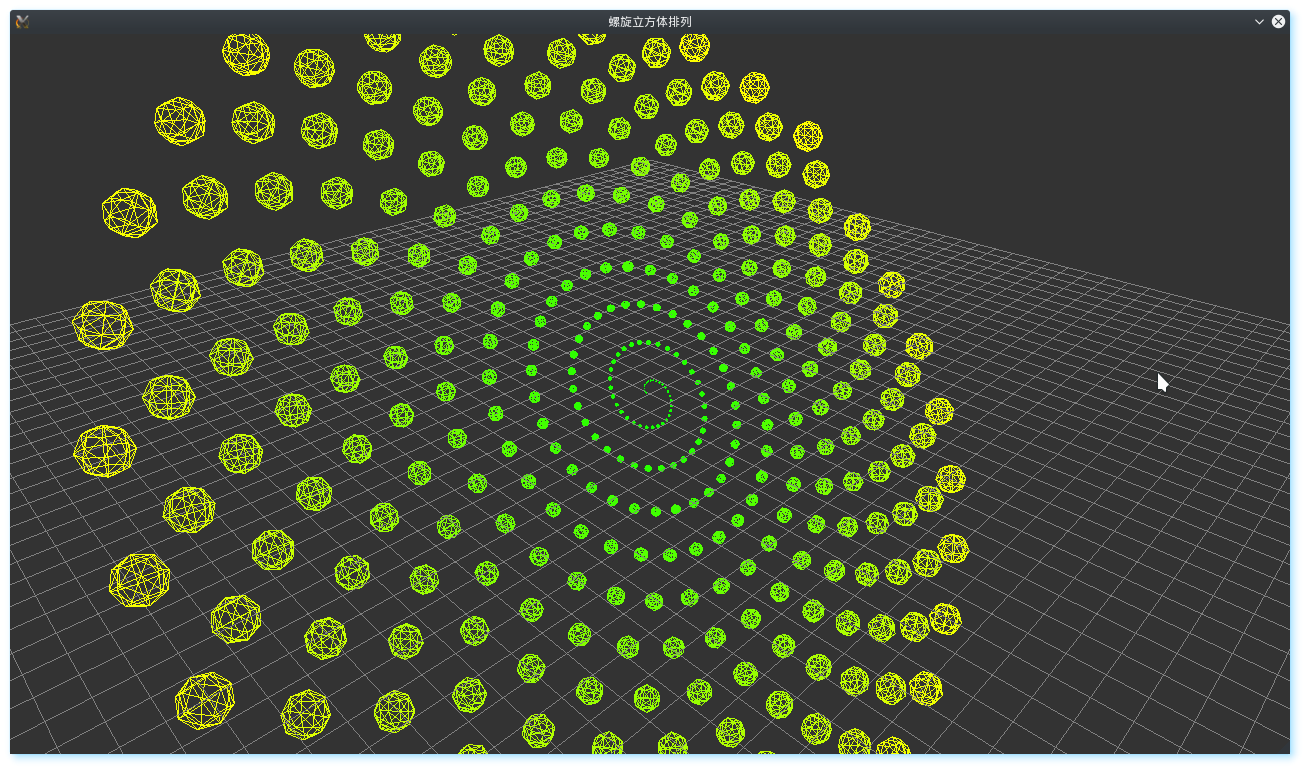
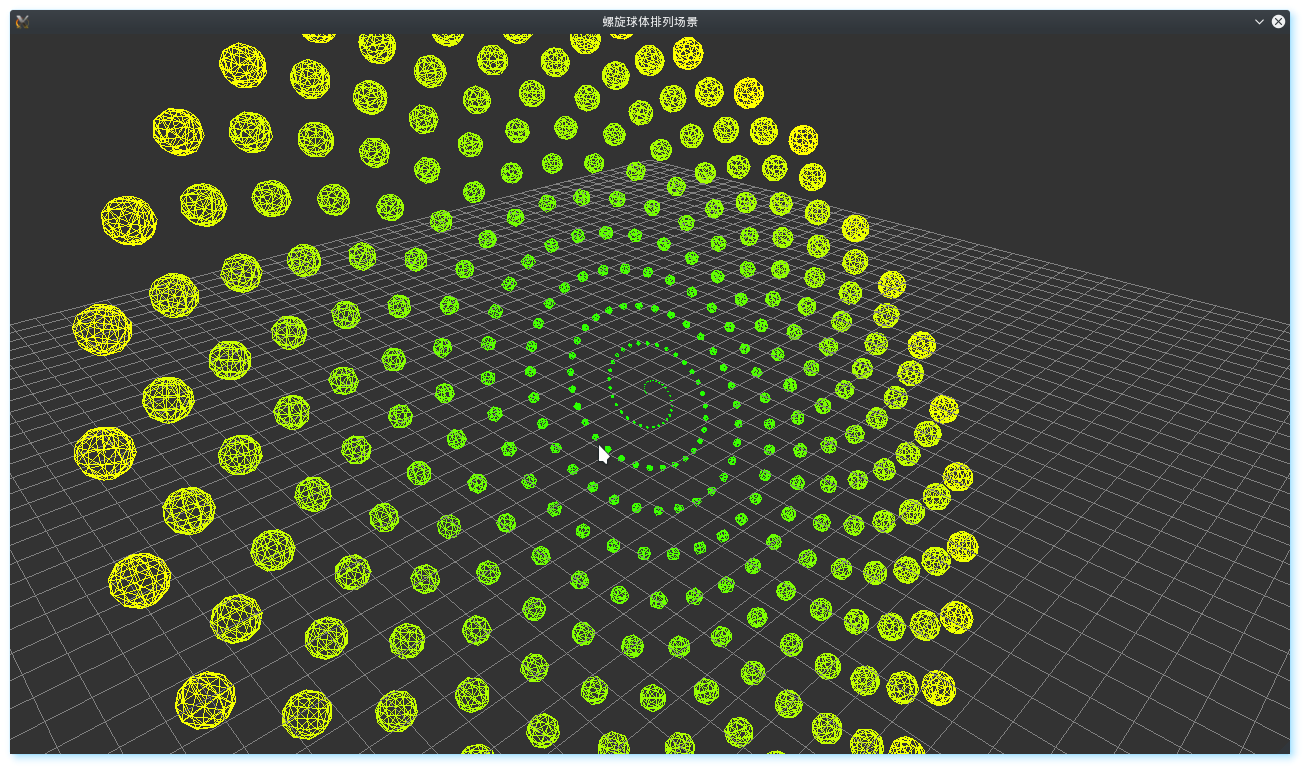
SpiralSphereScene范例改为球体面数不固定

diff --git a/examples/3d/SpiralSphereScene/SpiralSphere.cpp b/examples/3d/SpiralSphereScene/SpiralSphere.cpp
@@ -3,7 +3,8 @@
 
 SpiralSphere::SpiralSphere(const Vector3f &up_vector)
 {
-	sphere_data=CreateRenderableSphere(8);//false,vbtDiffuseTexCoord);				///<创建一个球体的顶点数据，并指定纹理坐标写在那一个位置上
+	for(int i=0;i<SPHERE_LOD_LEVEL;i++)
+		sphere_data[i]=CreateRenderableSphere(i+4);//false,vbtDiffuseTexCoord);				///<创建一个球体的顶点数据，并指定纹理坐标写在那一个位置上
 
 	for(int i=0;i<SPHERE_NUMBER;i++)
 	{
@@ -18,7 +19,7 @@ SpiralSphere::SpiralSphere(const Vector3f &up_vector)
 
 //		sphere_mtl[i]->SetTexture(mtcDiffuse,GrayWhiteGrid);
 
-		sphere_obj[i]=new Renderable(sphere_data,sphere_mtl[i]);					///<两个可渲染对像使用同一个顶点数据
+		sphere_obj[i]=new Renderable(sphere_data[i/(SPHERE_NUMBER/SPHERE_LOD_LEVEL)],sphere_mtl[i]);					///<两个可渲染对像使用同一个顶点数据
 //		sphere_obj[i]->SetTexCoord(mtcDiffuse,vbtDiffuseTexCoord);			///<设定指定通道使用的纹理坐标数据
 
 		sphere_obj[i]->AutoCreateShader();
@@ -40,7 +41,8 @@ SpiralSphere::~SpiralSphere()
 		delete sphere_mtl[i];
 	}
 
-	delete sphere_data;
+	for(int i=0;i<SPHERE_LOD_LEVEL;i++)
+		delete sphere_data[i];
 }
 
 void SpiralSphere::Render(const Matrix4f *proj,const Matrix4f *mv)

diff --git a/src/SceneGraph/InlineRenderable.cpp b/src/SceneGraph/InlineRenderable.cpp
@@ -334,8 +334,8 @@ namespace hgl
 			VB3f *vertex;
 			VB3f *normal;
 
-			obj->SetVertex(vertex=new VB3f(numberVertices));
-			obj->SetNormal(normal=new VB3f(numberVertices));
+			vertex=new VB3f(numberVertices);
+			normal=new VB3f(numberVertices);
 
 			vertex->Begin();
 			normal->Begin();
@@ -369,6 +369,9 @@ namespace hgl
 
 			normal->End();
 			vertex->End();
+
+			obj->SetVertex(vertex);
+			obj->SetNormal(normal);
 
 			if(numberVertices<=0xff)
 				obj->SetIndex(CreateSphereIndices<uint8>(numberSlices));

diff --git a/examples/3d/SpiralSphereScene/SpiralSphere.h b/examples/3d/SpiralSphereScene/SpiralSphere.h
@@ -4,7 +4,8 @@
 #include<hgl/VectorMath.h>
 #include<hgl/graph/SceneNode.h>
 
-#define SPHERE_NUMBER	360
+#define SPHERE_NUMBER		360
+#define SPHERE_LOD_LEVEL	8		//分成8级
 
 namespace hgl
 {
@@ -21,7 +22,7 @@ using namespace hgl::graph;
 
 class SpiralSphere
 {
-	VertexArray *sphere_data;
+	VertexArray *sphere_data[SPHERE_LOD_LEVEL];
 	Material *sphere_mtl[SPHERE_NUMBER];
 
 	Renderable *sphere_obj[SPHERE_NUMBER];
